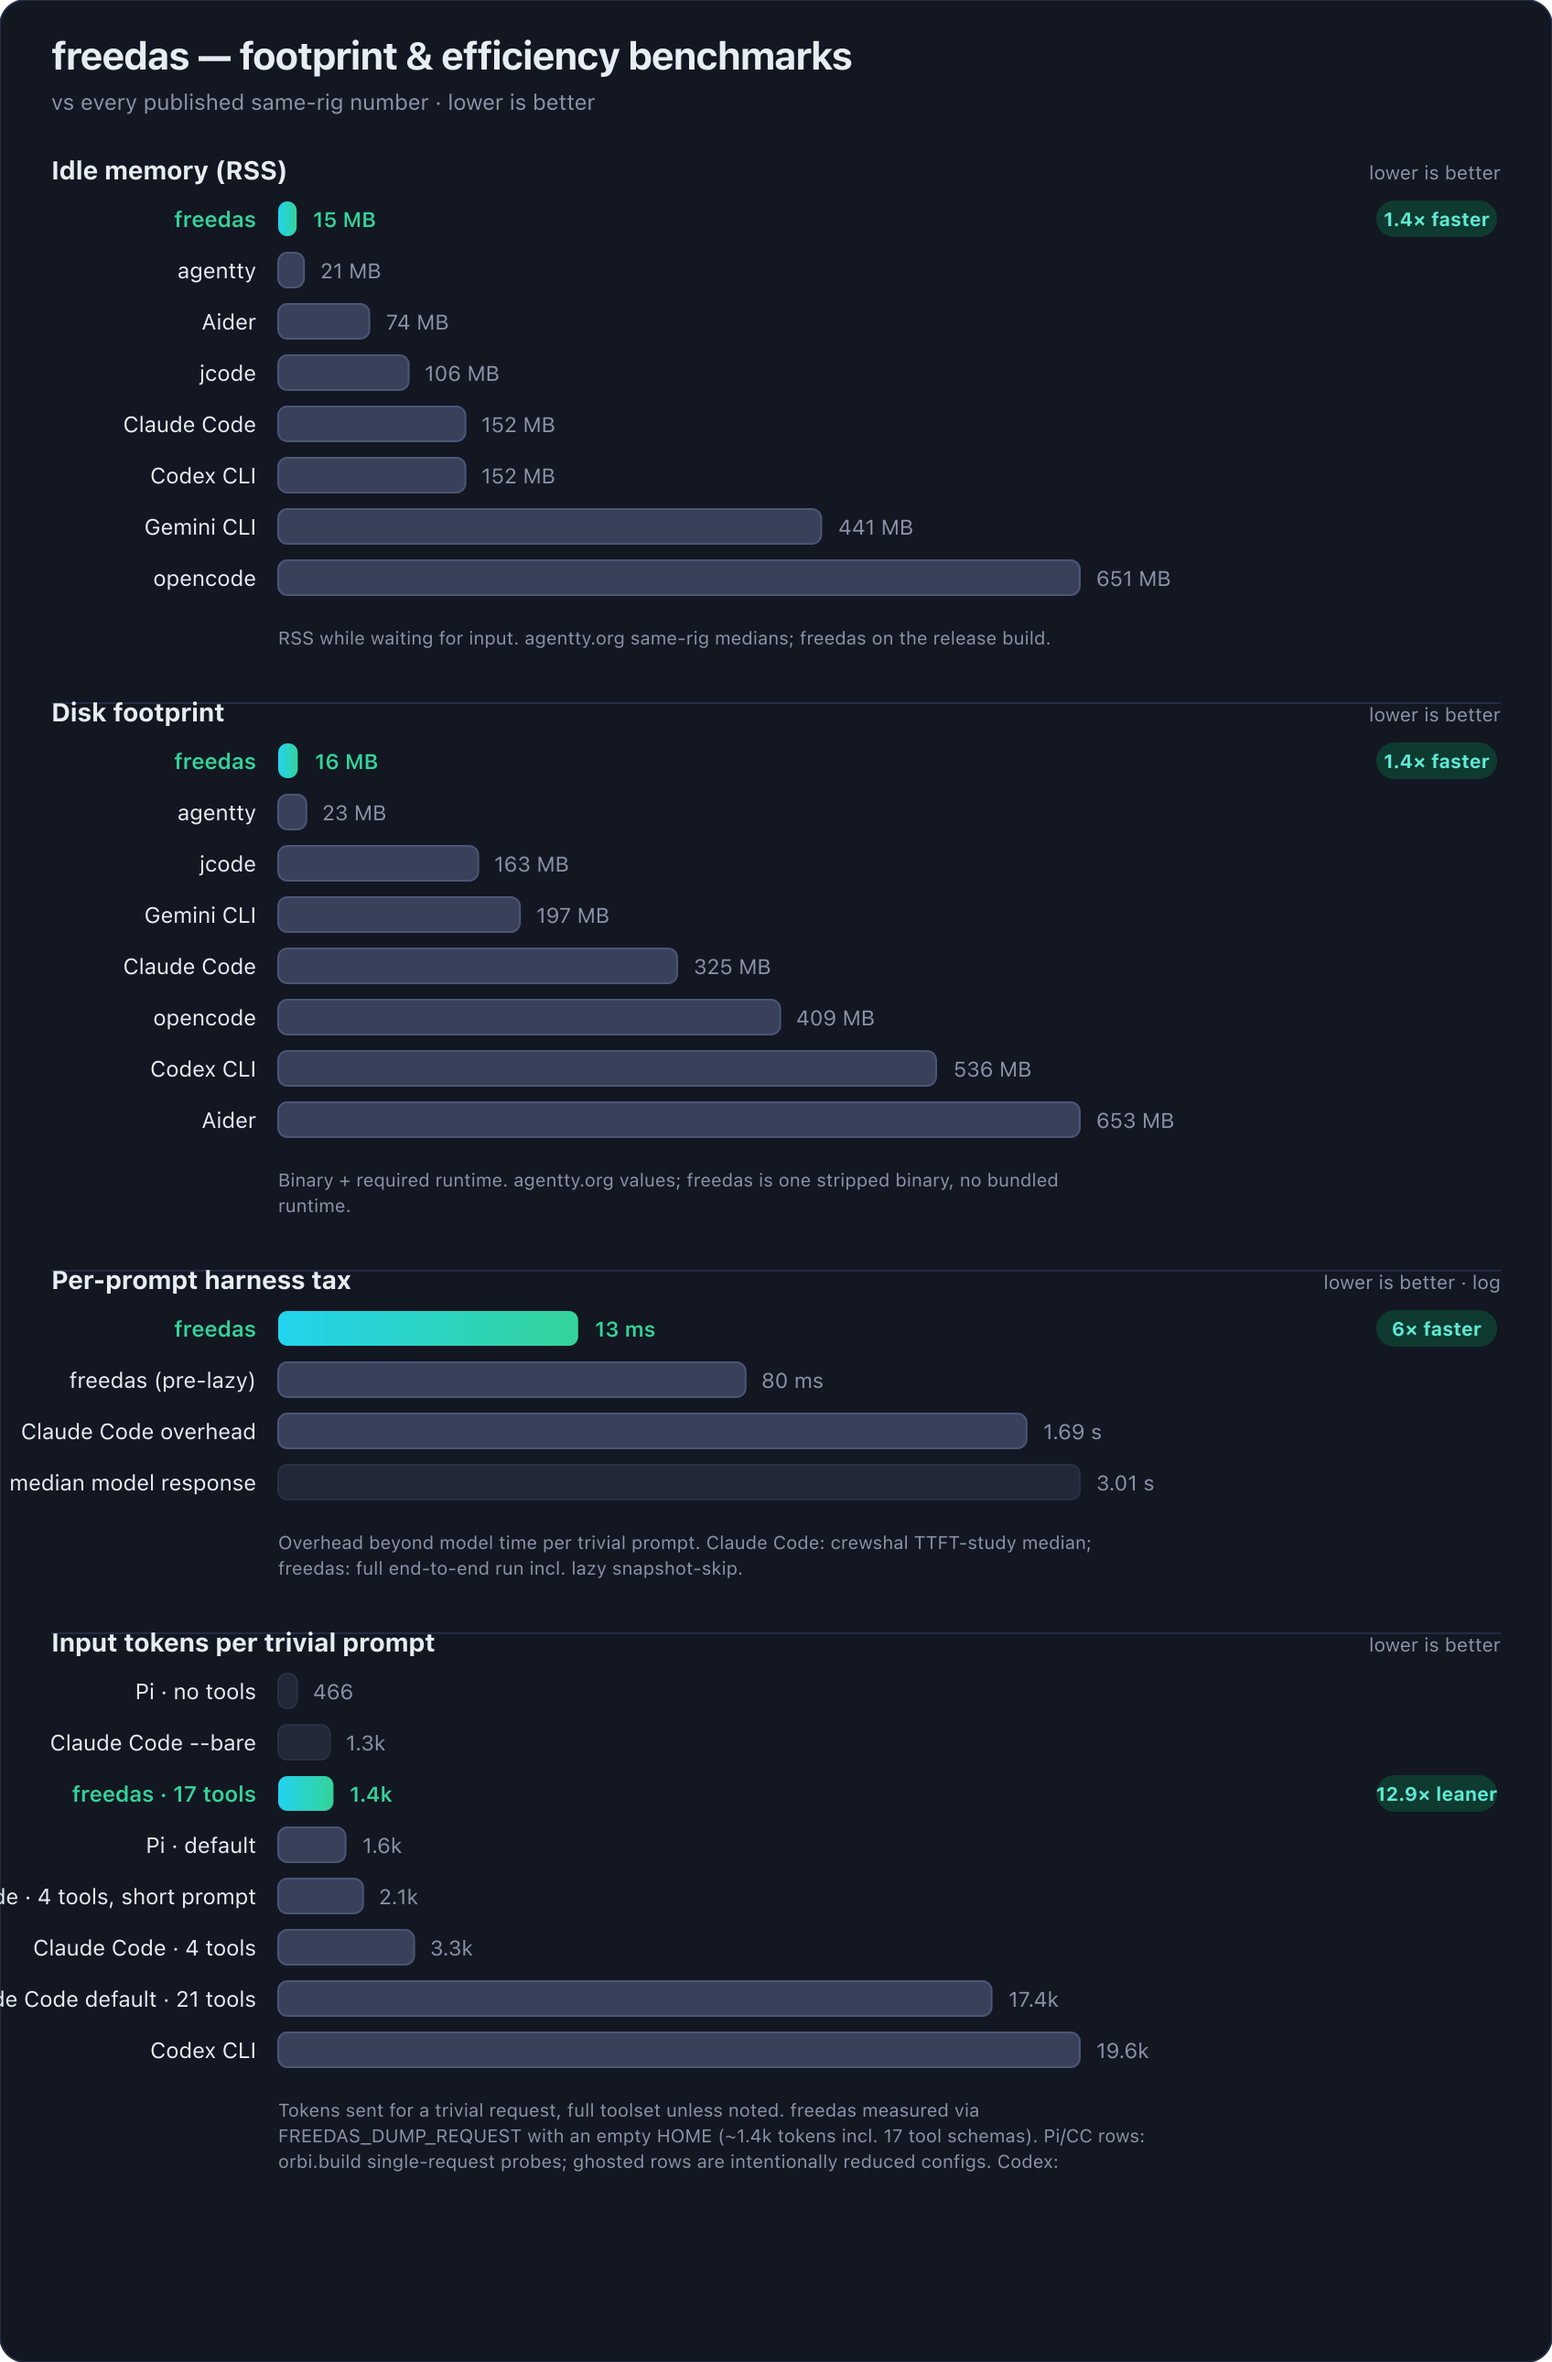
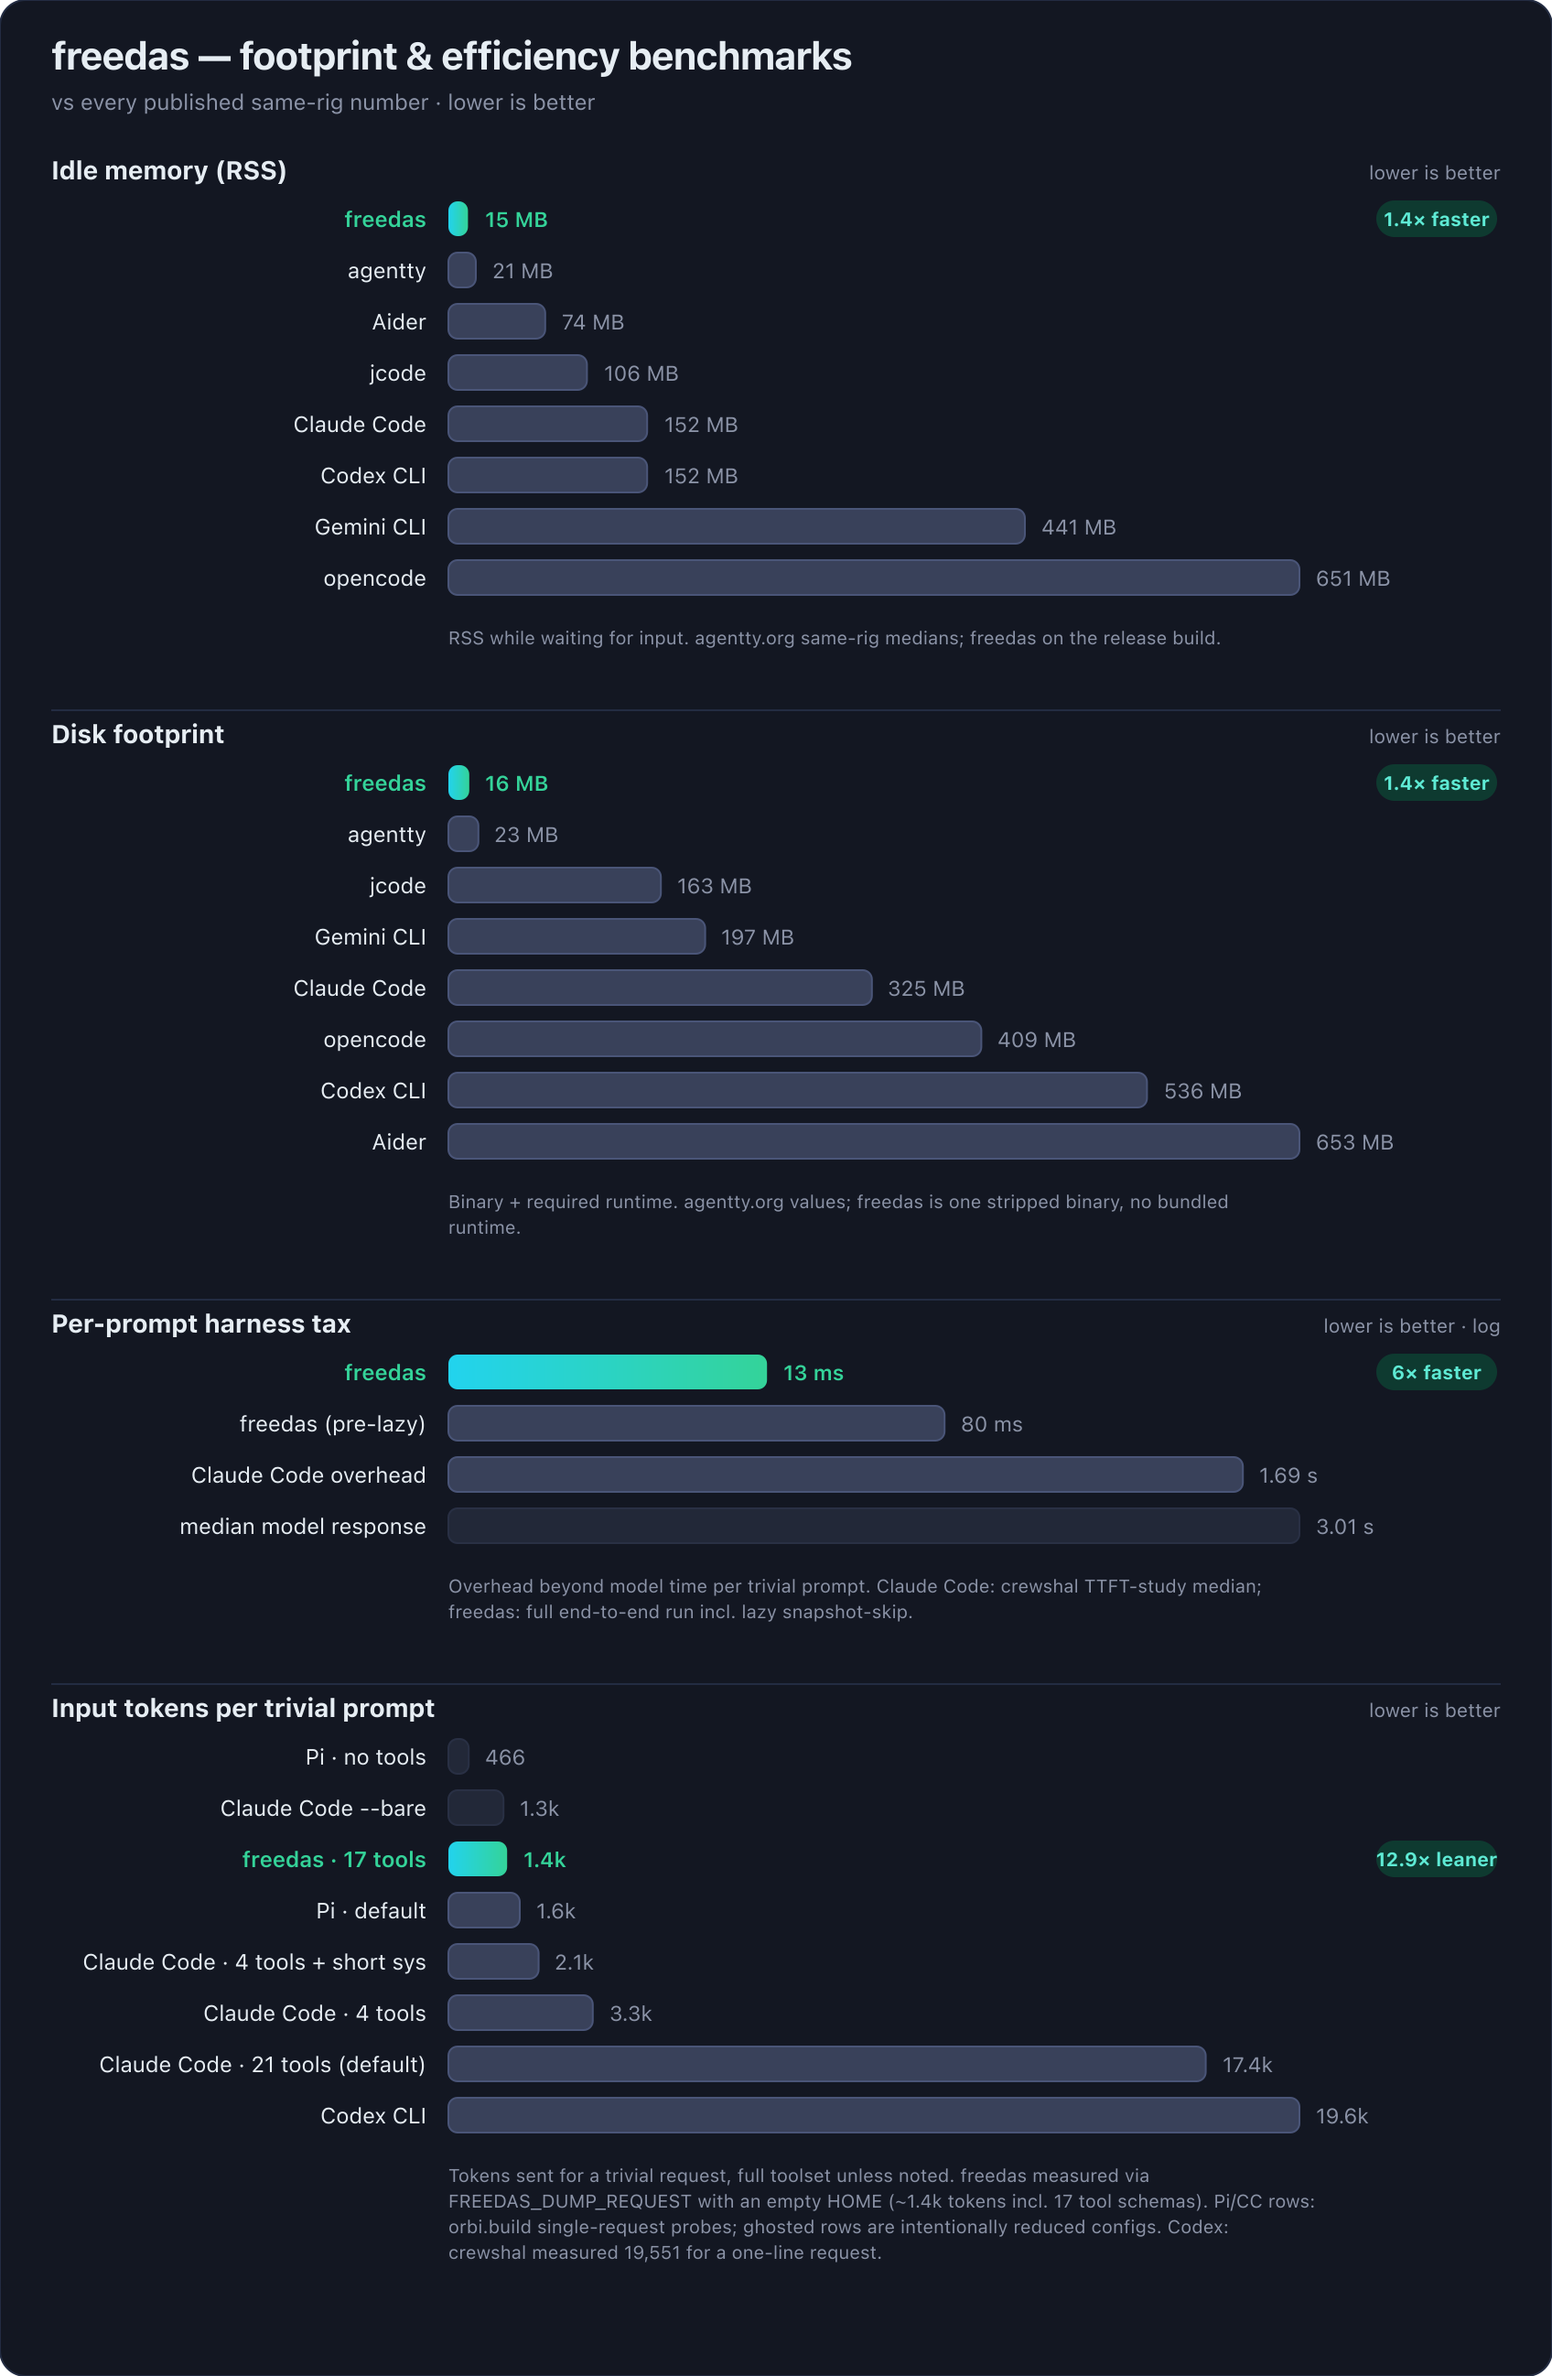
Fix clipped chart text: wider label column, exact svg height
Left labels overflowed the canvas on the longest harness names, and the
svg height was estimated so note lines could clip at the bottom. Label
column widened to 245px, bar area adjusted, and figure height is now
computed from actual rendered chart extents. Long CC labels shortened.

diff --git a/scripts/gen_benchmarks.py b/scripts/gen_benchmarks.py
@@ -11,7 +11,7 @@ import subprocess
 import html as H
 
 W = 848
-LEFT, BAR_W, ROW_H, BH = 152, 438, 28, 19
+LEFT, BAR_W, ROW_H, BH = 245, 465, 28, 19
 FONT = "ui-sans-serif,system-ui,-apple-system,'Segoe UI',Roboto,sans-serif"
 
 
@@ -86,9 +86,9 @@ FOOTPRINT = [
       ("Claude Code --bare", 1265, False, True),
       ("freedas \u00b7 17 tools", 1350, True, False),
       ("Pi \u00b7 default", 1641, False, False),
-      ("Claude Code \u00b7 4 tools, short prompt", 2072, False, False),
+      ("Claude Code \u00b7 4 tools + short sys", 2072, False, False),
       ("Claude Code \u00b7 4 tools", 3316, False, False),
-      ("Claude Code default \u00b7 21 tools", 17398, False, False),
+      ("Claude Code \u00b7 21 tools (default)", 17398, False, False),
       ("Codex CLI", 19551, False, False)],
      "Tokens sent for a trivial request, full toolset unless noted. freedas "
      "measured via FREEDAS_DUMP_REQUEST with an empty HOME (~1.4k tokens incl. "
@@ -163,26 +163,31 @@ def render_chart(title, unit, log, chip_override, rows, note, C, y0):
                 f'fill="{C["chip_t"]}" font-size="10.5" font-weight="700">'
                 f'{esc(chip_txt)}</text>')
     y += len(rows) * ROW_H + 6
-    # wrap note into ~2 lines at 88 chars
+    # wrap note into lines at ~95 chars; all lines render, height tracks them
     words, lines, cur = note.split(), [], ""
     for wd in words:
-        if len(cur) + len(wd) + 1 > 92:
+        if len(cur) + len(wd) + 1 > 95:
             lines.append(cur)
             cur = wd
         else:
             cur = f"{cur} {wd}" if cur else wd
     lines.append(cur)
-    for j, ln in enumerate(lines[:3]):
+    for j, ln in enumerate(lines):
         out.append(
             f'<text x="{LEFT}" y="{y+12+j*14}" fill="{C["mut"]}" font-size="10">'
             f'{esc(ln)}</text>')
-    return "".join(out), y + 14 + len(lines[:3]) * 14 + 12
+    return "".join(out), y + 14 + len(lines) * 14 + 14
 
 
 def figure(C, charts, title, subtitle, path):
-    heights = [26 + len(c[4]) * ROW_H + 20 + min(3, len(c[5].split()) // 12 + 1) * 14 + 14
-               for c in charts]
-    total = 80 + sum(heights) + 10 * (len(charts) - 1) + 30
+    # Render chart chunks first so the svg height is exact, not estimated.
+    chunks, seps, y = [], [], 84
+    for t, unit, log, chip, rows, note in charts:
+        chunk, y = render_chart(t, unit, log, chip, rows, note, C, y)
+        chunks.append(chunk)
+        seps.append(y + 6)
+        y += 10
+    total = y + 24
     out = [
         f'<svg xmlns="http://www.w3.org/2000/svg" width="{W}" height="{total}" '
         f'viewBox="0 0 {W} {total}" font-family="{FONT}" role="img" '
@@ -196,13 +201,11 @@ def figure(C, charts, title, subtitle, path):
         f'{esc(title)}</text>',
         f'<text x="28" y="60" fill="{C["mut"]}" font-size="12">{esc(subtitle)}</text>',
     ]
-    y = 84
-    for i, (t, unit, log, chip, rows, note) in enumerate(charts):
-        chunk, y = render_chart(t, unit, log, chip, rows, note, C, y)
+    for i, chunk in enumerate(chunks):
         out.append(chunk)
-        if i < len(charts) - 1:
+        if i < len(chunks) - 1:
             out.append(
-                f'<line x1="28" y1="{y+4}" x2="{W-28}" y2="{y+4}" '
+                f'<line x1="28" y1="{seps[i]}" x2="{W-28}" y2="{seps[i]}" '
                 f'stroke="{C["edge"]}" stroke-width="1"/>')
     out.append("</svg>")
     open(path, "w").write("".join(out))
